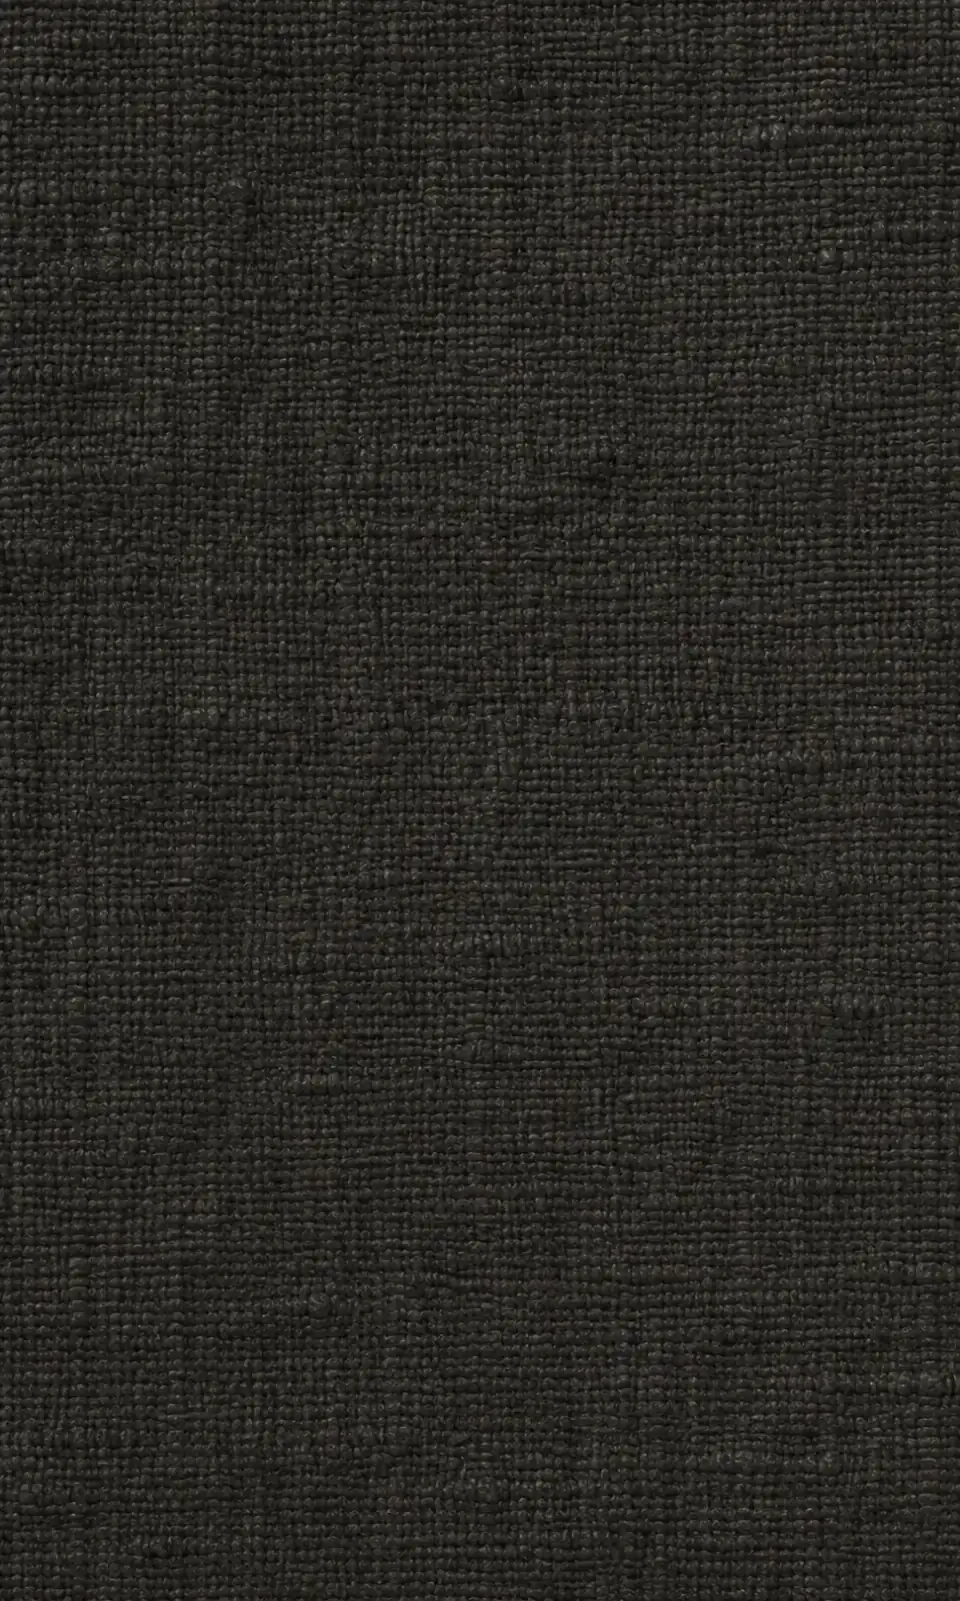
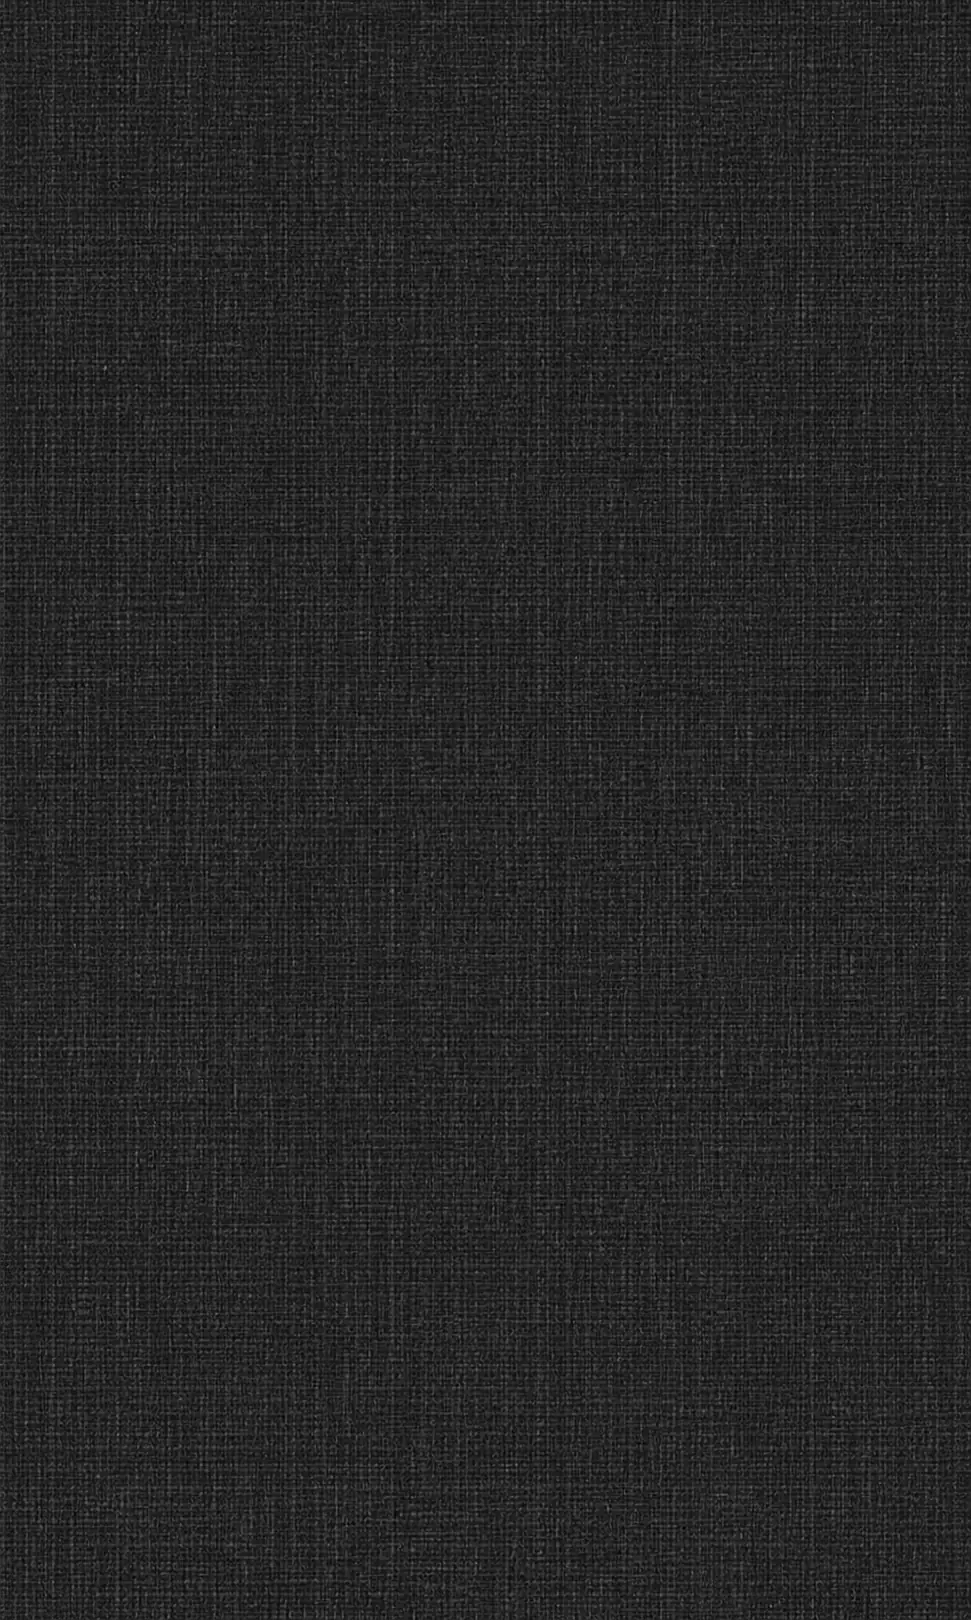
textil 3 kicserélve

Changed region(s): [[0.0, 0.0, 1.0, 1.0]]

diff --git a/css/styles.css b/css/styles.css
@@ -1562,11 +1562,12 @@ body.is-menu-open .site-header .logo__img--nav {
 }
 
 .swatch--wine {
+  /* Szilárd háttér a kártyán: a kontraszt-ellenőrzők a ::before képet nem látják */
   color: #fbf6ec;
+  background-color: var(--burgundy);
 }
 
 .swatch--wine::before {
-  background-color: var(--burgundy);
   background-image: url("../assets/backgrounds/textil_1.webp");
   opacity: 0.95;
 }
@@ -1578,10 +1579,10 @@ body.is-menu-open .site-header .logo__img--nav {
 
 .swatch--ivory {
   color: var(--ink);
+  background-color: var(--ivory);
 }
 
 .swatch--ivory::before {
-  background-color: var(--ivory);
   background-image: url("../assets/backgrounds/textil_2.webp");
 }
 
@@ -1591,12 +1592,14 @@ body.is-menu-open .site-header .logo__img--nav {
 
 .swatch--ink {
   color: #f4efe8;
+  /* charcoal ~20%-kal világosabb — egyezik a textil brightness-szel */
+  background-color: color-mix(in srgb, var(--charcoal) 80%, #fff);
 }
 
 .swatch--ink::before {
-  background-color: var(--charcoal);
   background-image: url("../assets/backgrounds/textil_3.webp");
   opacity: 0.95;
+  filter: brightness(1.2);
 }
 
 .swatch--ink .eyebrow {
@@ -1606,10 +1609,10 @@ body.is-menu-open .site-header .logo__img--nav {
 
 .swatch--sand {
   color: var(--ink);
+  background-color: var(--ivory);
 }
 
 .swatch--sand::before {
-  background-color: var(--ivory);
   background-image: url("../assets/backgrounds/textil_2.webp");
 }
 
